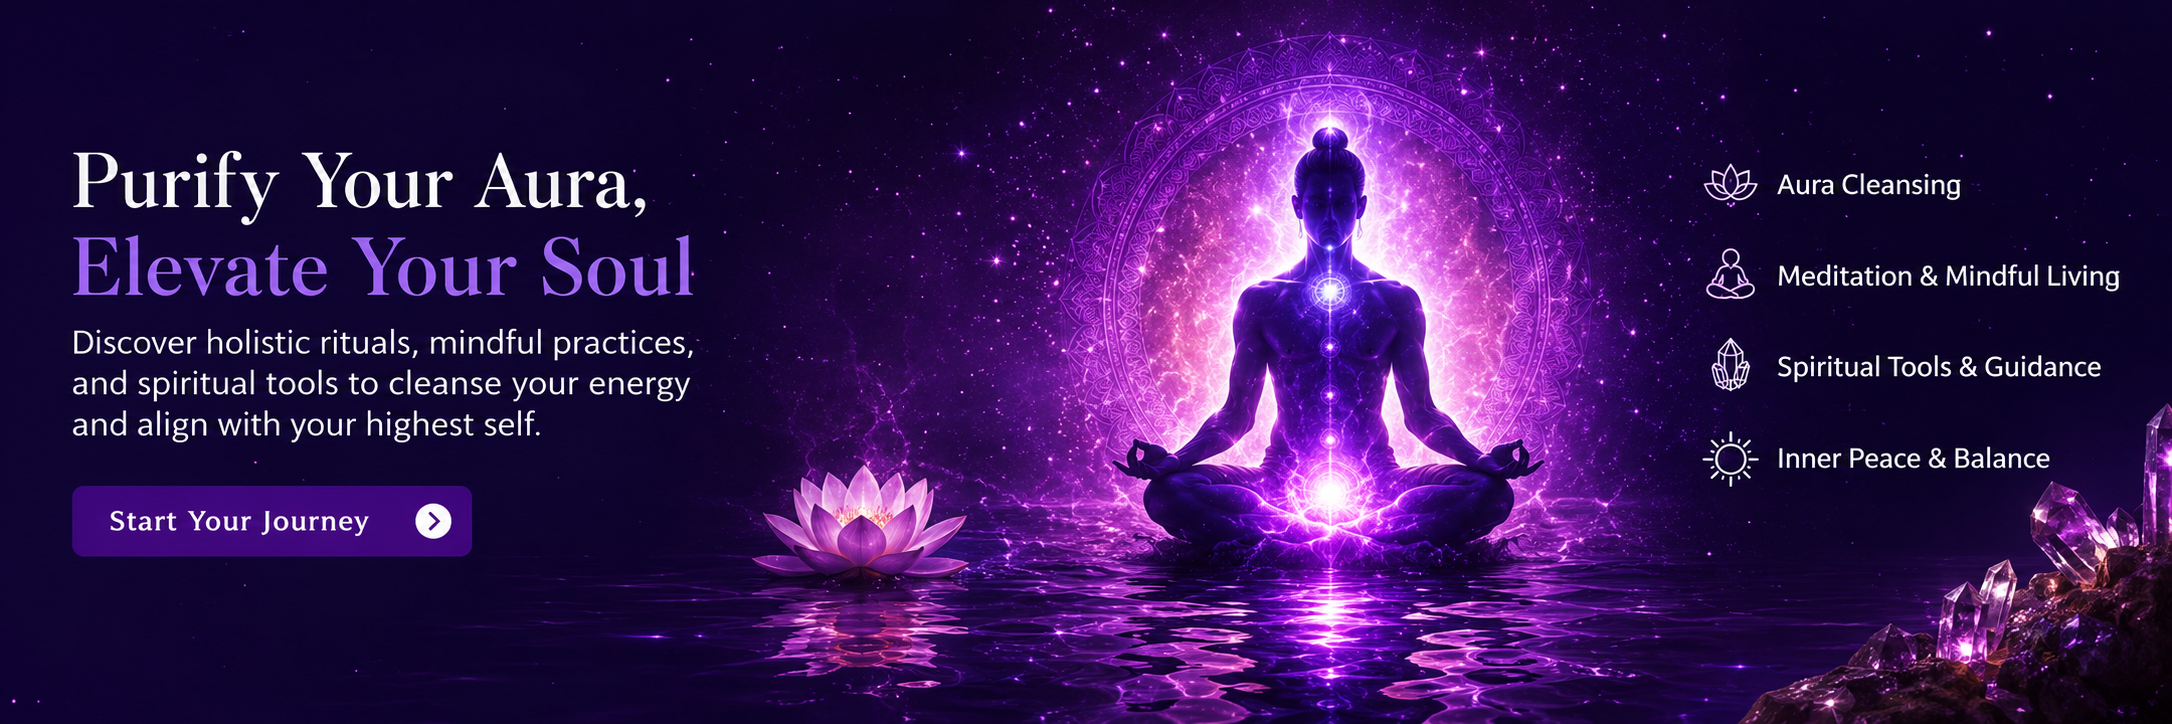
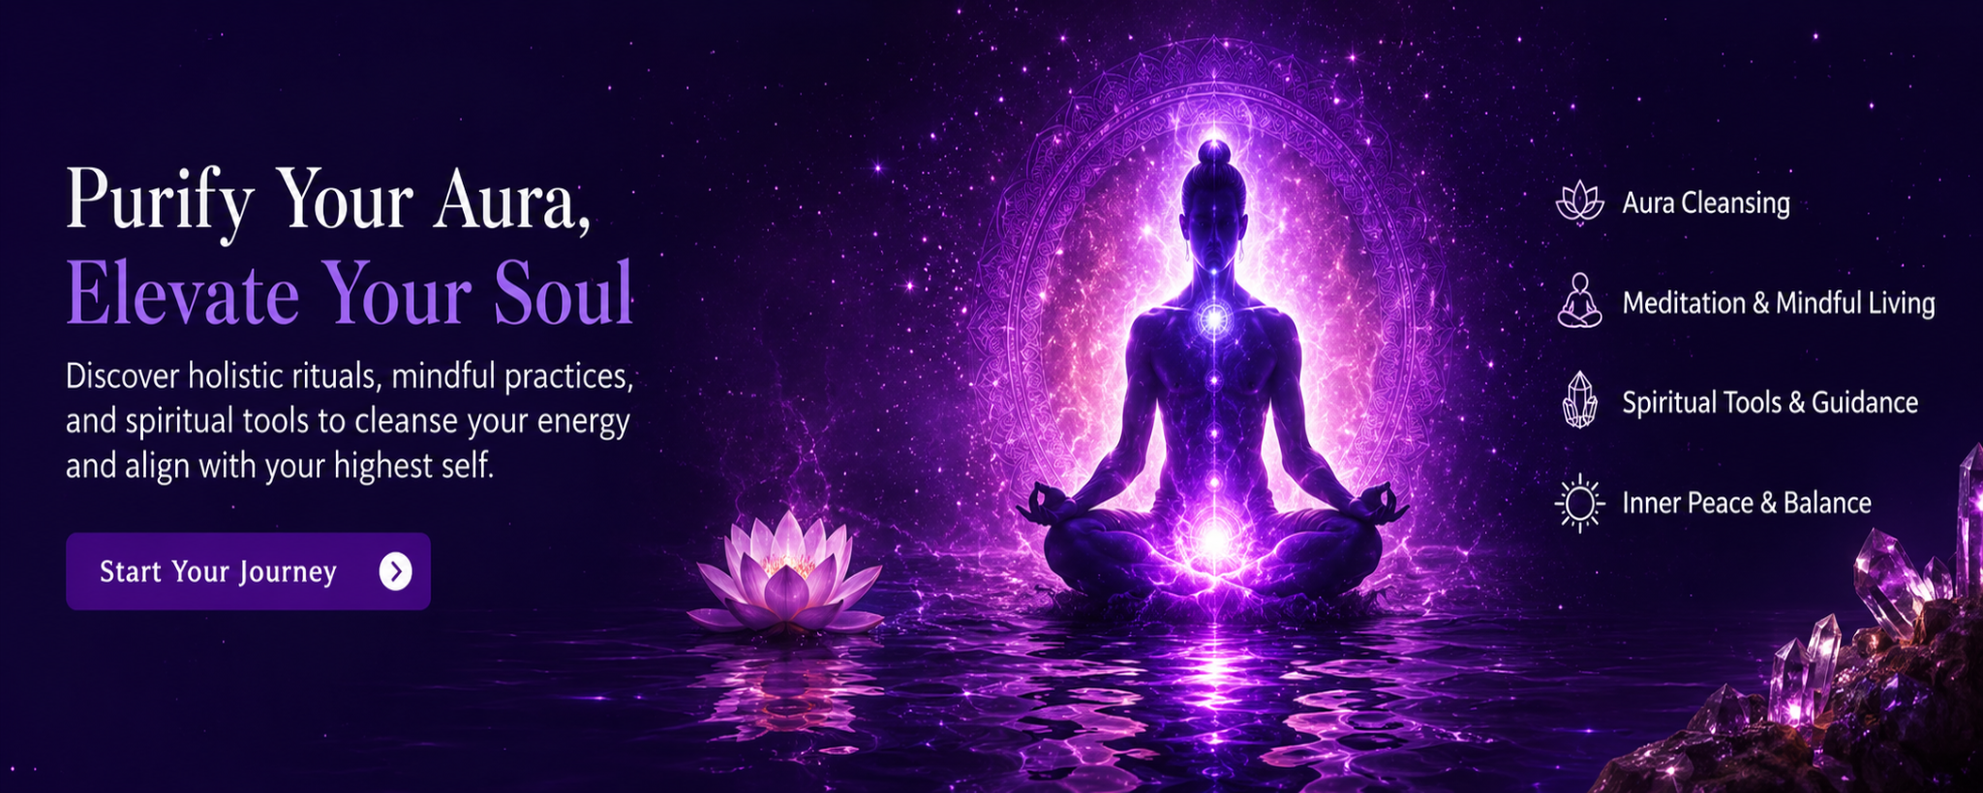
fixed issues

diff --git a/app/components/GalleryCarousel.tsx b/app/components/GalleryCarousel.tsx
@@ -70,7 +70,7 @@ export default function GalleryCarousel() {
             >
               {SLIDES.map((slide, i) => (
                 <SwiperSlide key={i}>
-                  <div className="relative cursor-pointer" style={{ height: "550px" }}>
+                  <div className="relative cursor-pointer" style={{ height: "100%" }}>
                     <Image
                       alt={slide.alt}
                       width={1920}